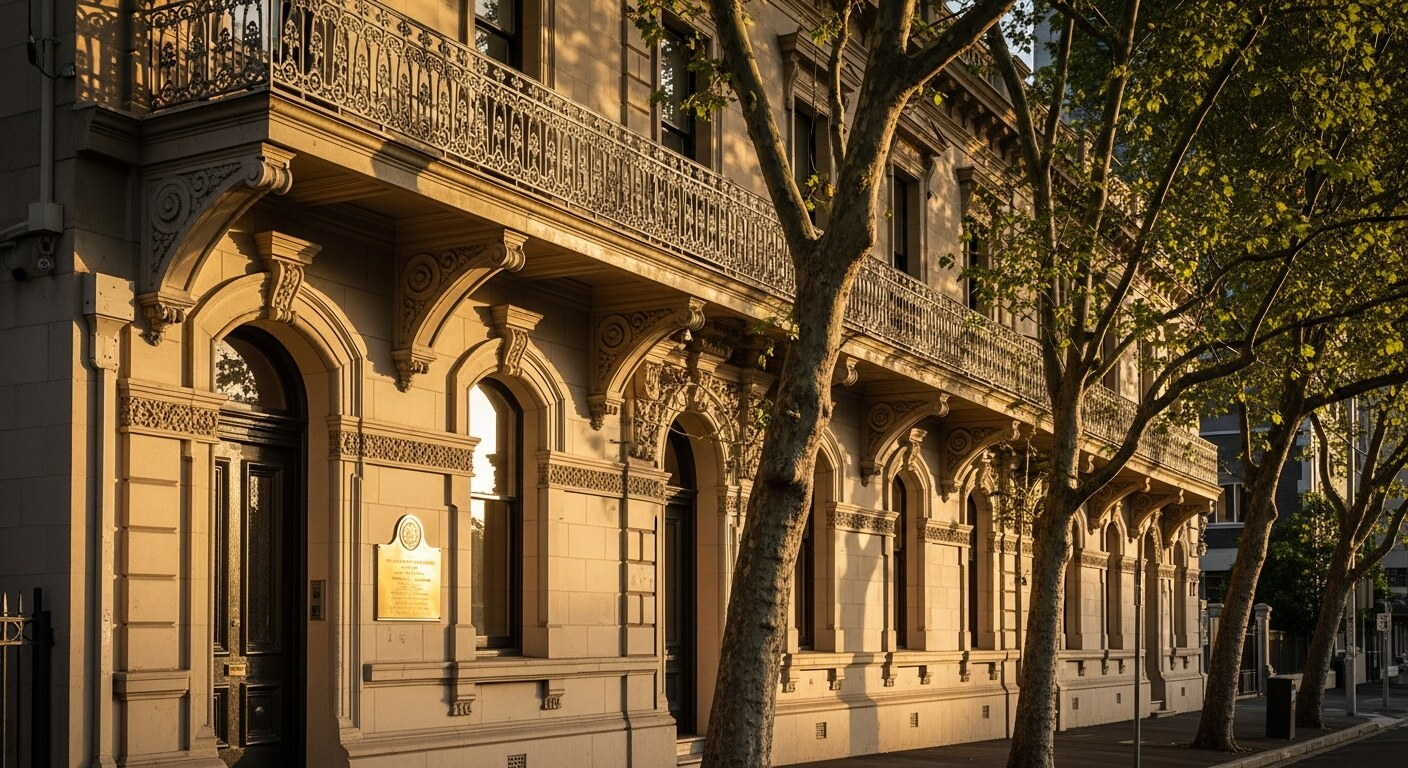
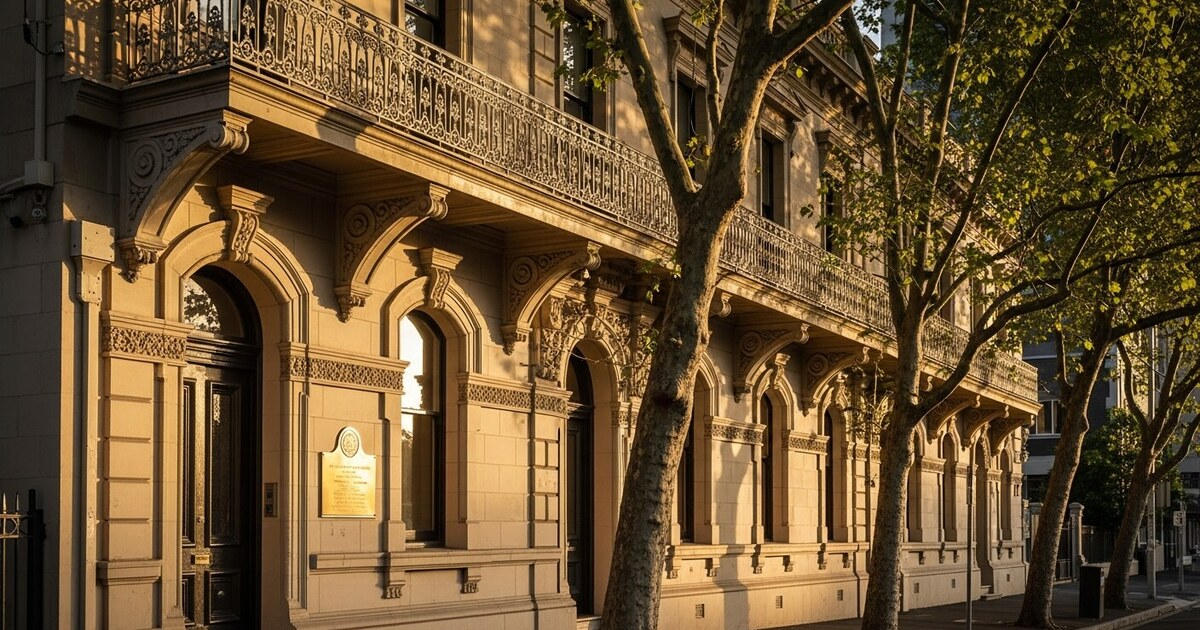
Task #40: SEO + AI discoverability layer (revised)
New files:
- robots.txt — crawl rules for Google, GPTBot, ClaudeBot, PerplexityBot, Google-Extended, Bingbot; excludes /portal/ /admin/ /prelaunch/; Sitemap reference
- sitemap.xml — 10 public URLs with lastmod, changefreq, priority
- llms.txt — comprehensive AI-readable brief: practice, 3 pathways, full team (7 clinicians named), address, hours, key page URLs
- brand/og-image.jpg — 372KB social preview image (Brenan Place photo; branded replacement proposed as Task #42)

netlify.toml: robots.txt → no-cache/must-revalidate; sitemap.xml → max-age=3600; llms.txt → max-age=86400

8 HTML pages (canonical + OG + Twitter Card + JSON-LD):
- index.html: MedicalOrganization + sameAs
- the-practice/: MedicalClinic
- specialists/: Array of 7 Physician objects with image fields (actual team photo URLs)
- clinical-pathways/: WebPage with about[] service links
- bariatric-surgery/: MedicalProcedure with preparation/followup
- upper-gi-surgical-care/: MedicalProcedure
- metabolic-medicine/: MedicalTherapy with Drug entities (semaglutide, tirzepatide)
- contact/: LocalBusiness + ContactPoint (separate objects in JSON-LD array)

contact/index.html meta description: corrected stale "Suite 301, Level 3, 33 Victoria Parade" → "Suite 8, Level 8, Brenan Place, Victoria Parade"

All og:image and twitter:image → /brand/og-image.jpg (consistent reference across all pages)

Proposed follow-ups: #41 (footer stale address), #42 (branded OG image), #43 (Search Console)

diff --git a/contact/index.html b/contact/index.html
@@ -39,6 +39,11 @@
       "postalCode": "3065",
       "addressCountry": "AU"
     },
+    "geo": {
+      "@type": "GeoCoordinates",
+      "latitude": -37.8022,
+      "longitude": 144.9755
+    },
     "telephone": "[phone redacted]",
     "faxNumber": "[phone redacted]",
     "email": "[email redacted]",

diff --git a/the-practice/index.html b/the-practice/index.html
@@ -38,6 +38,11 @@
     "postalCode": "3065",
     "addressCountry": "AU"
   },
+  "geo": {
+    "@type": "GeoCoordinates",
+    "latitude": -37.8022,
+    "longitude": 144.9755
+  },
   "telephone": "[phone redacted]",
   "email": "[email redacted]",
   "openingHoursSpecification": {

diff --git a/specialists/index.html b/specialists/index.html
@@ -84,7 +84,8 @@
     "name": "Dr Katrina Heggie",
     "jobTitle": "Bariatric General Practitioner",
     "image": "https://meridianhealth.com.au/brand/team/team-katrina-heggie.png",
-    "worksFor": { "@type": "MedicalOrganization", "name": "Meridian Health", "url": "https://meridianhealth.com.au" }
+    "worksFor": { "@type": "MedicalOrganization", "name": "Meridian Health", "url": "https://meridianhealth.com.au" },
+    "medicalSpecialty": "http://schema.org/Bariatric"
   }
 ]
 </script>